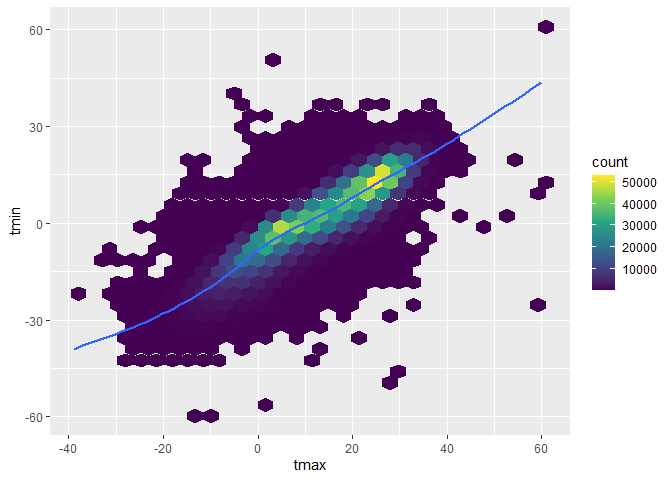
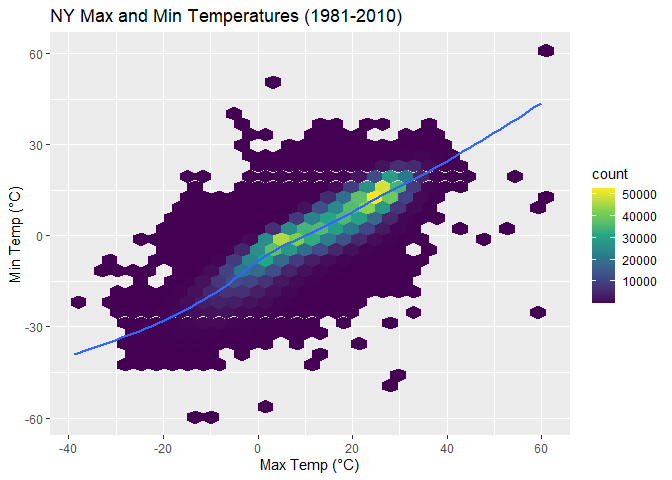
Problem 3: Snowfall

diff --git a/p8105_hw3_qz2266.md b/p8105_hw3_qz2266.md
@@ -373,12 +373,7 @@ tmax_tmin_p =
   ggplot(aes(x = tmax, y = tmin)) + 
   geom_hex(bin = 20) +
   geom_smooth(se = F) +
-  scale_fill_viridis_c()
-```
-
-    ## Warning: Ignoring unknown parameters: bin
-
-``` r
+  scale_fill_viridis_c() +
   labs(
     title = "NY Max and Min Temperatures (1981-2010)",
     x = "Max Temp (°C)",
@@ -386,17 +381,7 @@ tmax_tmin_p =
   )
 ```
 
-    ## $x
-    ## [1] "Max Temp (°C)"
-    ## 
-    ## $y
-    ## [1] "Min Temp (°C)"
-    ## 
-    ## $title
-    ## [1] "NY Max and Min Temperatures (1981-2010)"
-    ## 
-    ## attr(,"class")
-    ## [1] "labels"
+    ## Warning: Ignoring unknown parameters: bin
 
 ``` r
   theme(legend.position = "right")
@@ -415,3 +400,27 @@ tmax_tmin_p
     ## `geom_smooth()` using method = 'gam' and formula 'y ~ s(x, bs = "cs")'
 
 ![](p8105_hw3_qz2266_files/figure-gfm/unnamed-chunk-6-1.png)<!-- -->
+
+``` r
+snowfall_p = 
+  ny_noaa %>% 
+  drop_na(snow) %>%
+  filter(snow > 0, snow < 100) %>% 
+  mutate(
+    year =  as.factor(year)
+    ) %>%
+  ggplot(aes(x = year, y = snow)) +
+  geom_boxplot(fill = '#A4A4A4', color = "blue") +
+  
+  labs(
+      x = "year",
+      y = "snowfall (mm)",
+      title = "NY Snowfall Distribution (1981-2010)"
+    ) + 
+  theme_bw() +
+  theme(axis.text.x = element_text(angle = 90, size = 5))
+
+snowfall_p
+```
+
+![](p8105_hw3_qz2266_files/figure-gfm/unnamed-chunk-7-1.png)<!-- -->
